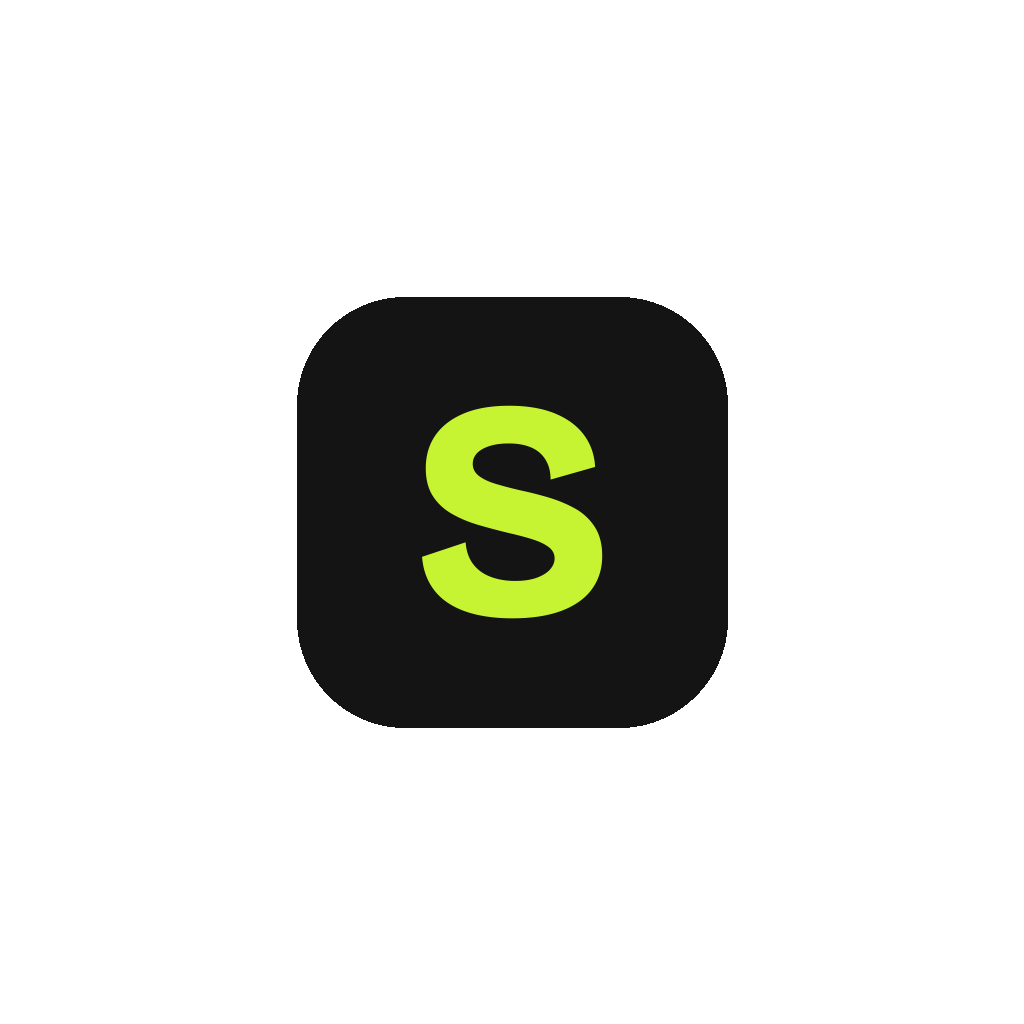
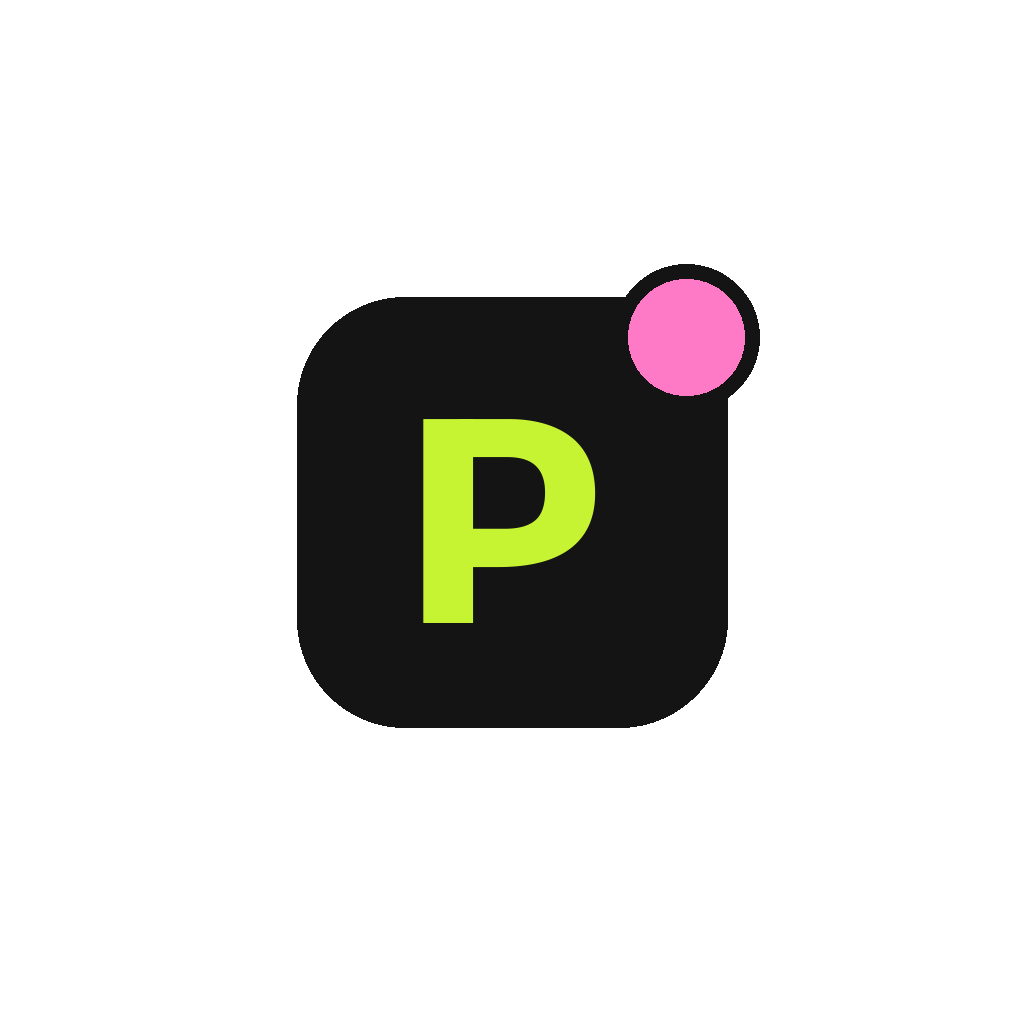
feat: rename the app to Pingo with a new P + ping-dot mark
Name, slug, URL scheme and bundle/package id (com.akashpatel.pingo),
all in-app copy, reminder and sign-in emails, privacy text and the CSV
export now say Pingo. Logo: lime P on the ink tile with a pink
notification dot; scripts/make_icons.py regenerates every icon asset,
and the splash dot pulses. Applied migrations are left as they were.

Changed region(s): [[0.4062, 0.375, 0.5938, 0.625], [0.5938, 0.25, 0.75, 0.4062]]

diff --git a/supabase/functions/send-reminders/index.ts b/supabase/functions/send-reminders/index.ts
@@ -111,7 +111,7 @@ export function renderEmail(r: Due, unsubUrl: string) {
 <table role="presentation" width="100%" cellpadding="0" cellspacing="0" style="max-width:480px;background:#FFFFFF;border:2.5px solid #141414;border-radius:22px;box-shadow:5px 5px 0 #141414;border-collapse:separate;overflow:hidden;color:#141414;font-family:${SANS}">
 <tr><td style="background:#C6F432;border-bottom:2.5px solid #141414;padding:12px 18px;border-radius:20px 20px 0 0">
 <table role="presentation" width="100%" cellpadding="0" cellspacing="0"><tr>
-<td style="font-family:${SANS};font-size:17px;font-weight:800;color:#141414"><span style="display:inline-block;width:26px;height:26px;line-height:26px;border-radius:8px;background:#141414;color:#C6F432;text-align:center;font-size:15px;vertical-align:middle">S</span>&nbsp; <span style="vertical-align:middle">SubTrack</span></td>
+<td style="font-family:${SANS};font-size:17px;font-weight:800;color:#141414"><span style="display:inline-block;width:26px;height:26px;line-height:26px;border-radius:8px;background:#141414;color:#C6F432;text-align:center;font-size:15px;vertical-align:middle">P</span>&nbsp; <span style="vertical-align:middle">Pingo</span></td>
 <td align="right" style="font-family:${MONO};font-size:11px;color:#141414">REMINDER</td>
 </tr></table></td></tr>
 <tr><td style="padding:22px 18px">
@@ -127,7 +127,7 @@ ${cta}
 <tr><td style="padding:16px 18px;background:#FFF8EC;border-top:2.5px solid #141414;border-radius:0 0 20px 20px;font-family:${MONO};font-size:12px;line-height:1.5;color:#141414">
 <div>you’re getting this because email reminders are on for ${name}.</div>
 <div style="margin-top:8px"><a href="${esc(unsubUrl)}" style="color:#141414;text-decoration:underline">unsubscribe from ${name} emails</a></div>
-<div style="margin-top:10px">SubTrack · sent with ♥</div>
+<div style="margin-top:10px">Pingo · sent with ♥</div>
 </td></tr>
 </table></td></tr></table></body></html>`;
   const text = `${head}\n\n${msg}\n\n${rows.map(([k, v]) => `${k}: ${v}`).join('\n')}\n` +
@@ -140,7 +140,7 @@ async function send(r: Due) {
   const unsub = `${SELF_URL}?unsub=${r.subscription_id}&sig=${await sign(r.subscription_id)}`;
   const { subject, html, text } = renderEmail(r, unsub);
   await smtp().sendMail({
-    from: Deno.env.get('EMAIL_FROM') ?? `SubTrack <${env('SMTP_USER')}>`,
+    from: Deno.env.get('EMAIL_FROM') ?? `Pingo <${env('SMTP_USER')}>`,
     to: r.email,
     subject,
     html,
@@ -161,7 +161,7 @@ export function renderPage(name: string, resubscribed: boolean, undoAction: stri
     ? `<button type="button" disabled style="${btn};opacity:.55;box-shadow:none;cursor:default">resubscribed ✓</button>`
     : `<form method="post" action="${esc(undoAction)}" style="margin:0"><button type="submit" style="${btn};cursor:pointer">oops, undo</button></form>`;
   return `<!doctype html><html lang="en"><head><meta charset="utf-8"><meta name="viewport" content="width=device-width,initial-scale=1">
-<meta name="robots" content="noindex">${FONTS}<title>${esc(title)} · SubTrack</title></head>
+<meta name="robots" content="noindex">${FONTS}<title>${esc(title)} · Pingo</title></head>
 <body style="margin:0;min-height:100vh;background:#FFF8EC;color:#141414;font-family:${SANS};display:flex;align-items:center;justify-content:center">
 <main style="width:100%;max-width:420px;padding:24px 28px;box-sizing:border-box">
 <div style="width:110px;height:110px;border-radius:50%;background:#C6F432;border:3px solid #141414;box-shadow:6px 6px 0 #141414;display:flex;align-items:center;justify-content:center;font-size:58px;font-weight:800;transform:rotate(-8deg)">✓</div>
@@ -190,8 +190,8 @@ async function toggle(req: Request, url: URL, param: 'unsub' | 'resub') {
 }
 
 export const plainPage = (name: string, resubscribed: boolean) => resubscribed
-  ? `SubTrack ✓ you're back in.\n\nEmails about ${name} are back on. We'll write before it charges.`
-  : `SubTrack ✓ you're unsubscribed.\n\nNo more emails about ${name}. Push reminders in the app still work.\n\nChanged your mind? Open SubTrack → ${name} → edit → turn on "email me too".\nOther subs keep emailing as usual.`;
+  ? `Pingo ✓ you're back in.\n\nEmails about ${name} are back on. We'll write before it charges.`
+  : `Pingo ✓ you're unsubscribed.\n\nNo more emails about ${name}. Push reminders in the app still work.\n\nChanged your mind? Open Pingo → ${name} → edit → turn on "email me too".\nOther subs keep emailing as usual.`;
 
 if (import.meta.main) Deno.serve(async (req) => {
   const url = new URL(req.url);

diff --git a/src/app/mail.tsx b/src/app/mail.tsx
@@ -47,9 +47,9 @@ export default function Mail() {
       <Rise style={{ paddingHorizontal: 18, paddingTop: 16 }}>
         <T accessibilityRole="header" w={800} size={22} style={{ lineHeight: 25, letterSpacing: -0.5 }}>{subject}</T>
         <View style={{ marginTop: 12, flexDirection: 'row', alignItems: 'center', gap: 10 }}>
-          <View style={[{ width: 40, height: 40, borderRadius: 20, backgroundColor: C.lime, alignItems: 'center', justifyContent: 'center' }, border()]}><T w={800} size={18}>S</T></View>
+          <View style={[{ width: 40, height: 40, borderRadius: 20, backgroundColor: C.lime, alignItems: 'center', justifyContent: 'center' }, border()]}><T w={800} size={18}>P</T></View>
           <View>
-            <T w={800} size={14}>SubTrack</T>
+            <T w={800} size={14}>Pingo</T>
             <T mono size={12}>to {profile?.email ?? 'me'} · {hourLabel(profile?.reminder_hour ?? 9)}</T>
           </View>
         </View>
@@ -58,8 +58,8 @@ export default function Mail() {
       <Rise delay={80} style={[{ marginHorizontal: 14, marginTop: 12, backgroundColor: C.white, borderRadius: 22, overflow: 'hidden' }, border(), shadow(5)]}>
         <View style={{ backgroundColor: C.lime, borderBottomWidth: 2.5, borderColor: C.ink, paddingVertical: 12, paddingHorizontal: 18, flexDirection: 'row', justifyContent: 'space-between', alignItems: 'center' }}>
           <View style={{ flexDirection: 'row', alignItems: 'center', gap: 8 }}>
-            <View style={{ width: 26, height: 26, borderRadius: 8, backgroundColor: C.ink, alignItems: 'center', justifyContent: 'center' }}><T w={800} size={15} color={C.lime}>S</T></View>
-            <T w={800} size={17}>SubTrack</T>
+            <View style={{ width: 26, height: 26, borderRadius: 8, backgroundColor: C.ink, alignItems: 'center', justifyContent: 'center' }}><T w={800} size={15} color={C.lime}>P</T></View>
+            <T w={800} size={17}>Pingo</T>
           </View>
           <T mono size={11}>REMINDER</T>
         </View>
@@ -77,7 +77,7 @@ export default function Mail() {
               </View>
             ))}
           </View>
-          <Btn style={{ marginTop: 18 }} h={54} size={15} title={portal ? `manage at ${portal} ↗` : 'open in SubTrack →'}
+          <Btn style={{ marginTop: 18 }} h={54} size={15} title={portal ? `manage at ${portal} ↗` : 'open in Pingo →'}
             onPress={() => (s.portal_url ? Linking.openURL(s.portal_url) : router.replace({ pathname: '/sub/[id]', params: { id: s.id } }))} />
           <View style={{ marginTop: 12, flexDirection: 'row', justifyContent: 'center', gap: 6 }}>
             <T size={13}>already cancelled?</T>
@@ -90,7 +90,7 @@ export default function Mail() {
             {s.email_enabled ? linkText(`unsubscribe from ${s.name} emails`, unsubscribe, C.redInk) : <T mono size={12}>emails for {s.name} are off</T>}
             {linkText('reminder settings', () => router.navigate('/settings'))}
           </View>
-          <T mono size={12} style={{ marginTop: 10 }}>SubTrack · sent with ♥</T>
+          <T mono size={12} style={{ marginTop: 10 }}>Pingo · sent with ♥</T>
         </View>
       </Rise>
     </Screen>

diff --git a/supabase/templates/login-code.html b/supabase/templates/login-code.html
@@ -6,12 +6,12 @@
 <link href="https://fonts.googleapis.com/css2?family=Bricolage+Grotesque:wght@500;800&family=DM+Mono&display=swap" rel="stylesheet">
 </head>
 <body style="margin:0;padding:0;background:#F4F0E6">
-<!-- SubTrack sign-in code. Used for both "Magic Link" and "Confirm signup" (first sign-in) templates. -->
+<!-- Pingo sign-in code. Used for both "Magic Link" and "Confirm signup" (first sign-in) templates. -->
 <table role="presentation" width="100%" cellpadding="0" cellspacing="0" style="background:#F4F0E6">
 <tr><td align="center" style="padding:24px 14px">
 <table role="presentation" width="100%" cellpadding="0" cellspacing="0" style="max-width:480px;background:#ffffff;border:2.5px solid #141414;border-radius:22px;box-shadow:5px 5px 0 #141414">
 <tr><td style="background:#C6F432;border-bottom:2.5px solid #141414;border-radius:20px 20px 0 0;padding:12px 18px;font-family:'Bricolage Grotesque',-apple-system,Segoe UI,Roboto,Helvetica,Arial,sans-serif;font-size:17px;font-weight:800;color:#141414">
-<span style="display:inline-block;width:26px;height:26px;line-height:26px;text-align:center;border-radius:8px;background:#141414;color:#C6F432;font-size:15px">S</span>&nbsp; SubTrack
+<span style="display:inline-block;width:26px;height:26px;line-height:26px;text-align:center;border-radius:8px;background:#141414;color:#C6F432;font-size:15px">P</span>&nbsp; Pingo
 </td></tr>
 <tr><td style="padding:24px 18px;font-family:'Bricolage Grotesque',-apple-system,Segoe UI,Roboto,Helvetica,Arial,sans-serif;color:#141414">
 <div style="font-size:28px;line-height:1.1;font-weight:800;letter-spacing:-0.8px">your sign-in code 📬</div>
@@ -19,7 +19,7 @@
 <div style="margin:20px 0 0;padding:14px 0;text-align:center;background:#C6F432;border:2.5px solid #141414;border-radius:16px;font-family:'DM Mono',ui-monospace,Menlo,monospace;font-size:34px;letter-spacing:10px;color:#141414">{{ .Token }}</div>
 <p style="margin:18px 0 0;font-size:13px;line-height:1.45;font-weight:500">didn’t ask for this? ignore it. no one gets in without the code.</p>
 </td></tr>
-<tr><td style="padding:14px 18px;background:#FFF8EC;border-top:2.5px solid #141414;border-radius:0 0 20px 20px;font-family:'DM Mono',ui-monospace,Menlo,monospace;font-size:12px;color:#141414">no passwords. ever. ✌ · SubTrack</td></tr>
+<tr><td style="padding:14px 18px;background:#FFF8EC;border-top:2.5px solid #141414;border-radius:0 0 20px 20px;font-family:'DM Mono',ui-monospace,Menlo,monospace;font-size:12px;color:#141414">no passwords. ever. ✌ · Pingo</td></tr>
 </table>
 </td></tr>
 </table>

diff --git a/src/components/Splash.tsx b/src/components/Splash.tsx
@@ -25,10 +25,11 @@ export function Splash() {
         </Loop>
         <PopIn delay={100}>
           <View style={[{ width: 148, height: 148, borderRadius: 42, backgroundColor: C.ink, alignItems: 'center', justifyContent: 'center', transform: [{ rotate: '-6deg' }] }, border(3), shadow(8, C.pink)]}>
-            <T w={800} size={96} color={C.lime} style={{ letterSpacing: -4, lineHeight: 110 }}>S</T>
+            <T w={800} size={96} color={C.lime} style={{ letterSpacing: -4, lineHeight: 110 }}>P</T>
           </View>
-          <Loop kind="spin" duration={5000} style={{ position: 'absolute', top: -18, right: -20 }}>
-            <View style={[{ width: 54, height: 54, borderRadius: 27, backgroundColor: C.yellow, alignItems: 'center', justifyContent: 'center' }, border(3)]}><T size={24}>✦</T></View>
+          {/* The "ping": a notification dot on the P, pulsing. */}
+          <Loop kind="pulse" duration={1300} style={{ position: 'absolute', top: -12, right: -12 }}>
+            <View style={[{ width: 46, height: 46, borderRadius: 23, backgroundColor: C.pink }, border(3)]} />
           </Loop>
           <PopIn delay={750} style={{ position: 'absolute', bottom: -14, left: -24 }}>
             <View style={[{ paddingHorizontal: 10, paddingVertical: 4, borderRadius: 999, backgroundColor: C.red, transform: [{ rotate: '-10deg' }] }, border()]}>
@@ -36,7 +37,7 @@ export function Splash() {
             </View>
           </PopIn>
         </PopIn>
-        <Rise delay={450} style={{ marginTop: 34 }}><T w={800} size={46} style={{ letterSpacing: -2 }}>SubTrack</T></Rise>
+        <Rise delay={450} style={{ marginTop: 34 }}><T w={800} size={46} style={{ letterSpacing: -2 }}>Pingo</T></Rise>
         <Rise delay={550} style={{ marginTop: 6 }}><T mono size={13}>subscriptions, handled.</T></Rise>
       </Pressable>
     </Animated.View>

diff --git a/src/app/login.tsx b/src/app/login.tsx
@@ -134,7 +134,7 @@ export default function Login() {
             <View style={[{ paddingVertical: 10, paddingHorizontal: 18, borderRadius: 999, backgroundColor: C.red, transform: [{ rotate: '-5deg' }] }, border(3), shadow(4)]}><T w={800} size={18} color={C.white}>in 2 days 👀</T></View>
           </Loop>
           <Loop kind="bob" duration={2800} delay={1100} style={{ position: 'absolute', right: 20, top: 204 }}>
-            <View style={[{ width: 70, height: 70, borderRadius: 35, backgroundColor: C.purple, alignItems: 'center', justifyContent: 'center', transform: [{ rotate: '8deg' }] }, border(3), shadow(4)]}><T w={800} size={34}>S</T></View>
+            <View style={[{ width: 70, height: 70, borderRadius: 35, backgroundColor: C.purple, alignItems: 'center', justifyContent: 'center', transform: [{ rotate: '8deg' }] }, border(3), shadow(4)]}><T w={800} size={34}>P</T></View>
           </Loop>
           <Loop kind="spin" duration={9000} style={{ position: 'absolute', left: 16, top: 196 }}>
             <View style={[{ width: 54, height: 54, borderRadius: 27, backgroundColor: C.yellow, alignItems: 'center', justifyContent: 'center' }, border(3)]}><T size={28}>✦</T></View>
@@ -142,7 +142,7 @@ export default function Login() {
         </View>
         <Rise delay={100} style={{ flexDirection: 'row', alignItems: 'center', gap: 8 }}>
           <View style={[{ width: 10, height: 10, borderRadius: 5, backgroundColor: C.lime }, border(2)]} />
-          <T mono={500} size={13}>SubTrack</T>
+          <T mono={500} size={13}>Pingo</T>
         </Rise>
         <Rise delay={180} style={{ marginTop: 10 }}>
           <T w={800} size={46} style={{ lineHeight: 46, letterSpacing: -1.8 }}>never get</T>

diff --git a/src/components/notif.tsx b/src/components/notif.tsx
@@ -8,8 +8,8 @@ import { Sheet, Tile, useFx } from './overlays';
 import { Btn, T } from './ui';
 
 const STEPS = Platform.OS === 'ios'
-  ? ['open settings', 'notifications → SubTrack', 'switch “allow notifications” on']
-  : ['open android settings', 'apps → SubTrack → notifications', 'switch “allow notifications” on'];
+  ? ['open settings', 'notifications → Pingo', 'switch “allow notifications” on']
+  : ['open android settings', 'apps → Pingo → notifications', 'switch “allow notifications” on'];
 
 // Push is effectively off when the OS blocks it or the user switched it off in settings.
 export function usePushOff() {
@@ -61,7 +61,7 @@ export function NotifOffSheet({ visible, onClose }: { visible: boolean; onClose:
       <Tile emoji="🔕" bg={C.paper} wiggle />
       <T accessibilityRole="header" w={800} size={34} style={{ marginTop: 20, letterSpacing: -1.2, lineHeight: 36 }}>notifs are off</T>
       <T size={16} style={{ marginTop: 10, lineHeight: 22 }}>
-        {blockedByOs ? `${Platform.OS === 'ios' ? 'iOS' : 'android'} is blocking SubTrack, so we can’t ping you before charges.` : 'you switched push off, so we can’t ping you before charges.'} email reminders still work.
+        {blockedByOs ? `${Platform.OS === 'ios' ? 'iOS' : 'android'} is blocking Pingo, so we can’t ping you before charges.` : 'you switched push off, so we can’t ping you before charges.'} email reminders still work.
       </T>
       {blockedByOs && (
         <View style={{ marginTop: 18, gap: 10 }}>

diff --git a/src/app/(tabs)/settings.tsx b/src/app/(tabs)/settings.tsx
@@ -40,7 +40,7 @@ export default function Settings() {
 
   async function exportCsv() {
     try {
-      await Share.share({ title: 'subtrack-export.csv', message: toCsv(subs) });
+      await Share.share({ title: 'pingo-export.csv', message: toCsv(subs) });
     } catch {
       toast('export failed. try again');
     }
@@ -119,7 +119,7 @@ export default function Settings() {
           {({ pressed }) => <T w={800} size={16} color={pressed ? C.white : C.redInk}>delete account</T>}
         </Pressable>
       </Rise>
-      <T mono size={11} style={{ marginTop: 22, textAlign: 'center' }}>SubTrack v1.0 · made w/ ♥ & mild money anxiety</T>
+      <T mono size={11} style={{ marginTop: 22, textAlign: 'center' }}>Pingo v1.0 · made w/ ♥ & mild money anxiety</T>
 
       <NotifOffSheet visible={sheet} onClose={() => setSheet(false)} />
       <Confirm visible={confirm} title="nuke your account?" body="every sub, reminder and setting gets deleted forever. fr fr no undo." yes="delete it all"

diff --git a/src/app/onboard.tsx b/src/app/onboard.tsx
@@ -28,7 +28,7 @@ export default function Onboard() {
       <View style={{ flexDirection: 'row', justifyContent: 'space-between', alignItems: 'center', paddingHorizontal: 24, paddingTop: 10 }}>
         <View style={{ flexDirection: 'row', alignItems: 'center', gap: 8 }}>
           <View style={[{ width: 10, height: 10, borderRadius: 5, backgroundColor: C.lime }, border(2)]} />
-          <T mono={500} size={13}>SubTrack</T>
+          <T mono={500} size={13}>Pingo</T>
         </View>
         <Pressable accessibilityRole="button" onPress={finish} hitSlop={6} style={({ pressed }) => [{ height: 38, paddingHorizontal: 16, borderRadius: 999, backgroundColor: pressed ? C.yellow : C.white, justifyContent: 'center' }, border(2)]}>
           <T w={700} size={14}>skip</T>

diff --git a/src/theme.ts b/src/theme.ts
@@ -1,4 +1,4 @@
-// Design tokens from the SubTrack design (neo-brutalist: ink borders, hard offset shadows).
+// Design tokens from the Pingo design (neo-brutalist: ink borders, hard offset shadows).
 export const C = {
   ink: '#141414',
   cream: '#FFF8EC',

diff --git a/scripts/make_icons.py b/scripts/make_icons.py
@@ -1,0 +1,32 @@
+# Renders Pingo's logo into the app's icon/splash assets. Run from the repo root:
+#   python3 scripts/make_icons.py
+# Mark: ink rounded square, lime "P", pink "ping" dot on the top-right corner.
+from PIL import Image, ImageDraw, ImageFont
+
+FONT = 'node_modules/@expo-google-fonts/bricolage-grotesque/800ExtraBold/BricolageGrotesque_800ExtraBold.ttf'
+LIME, INK, PINK = (198, 244, 50, 255), (20, 20, 20, 255), (255, 122, 198, 255)
+
+
+def mark(size, box_frac, bg=None, dot=True, ink=INK, letter=LIME, dot_fill=PINK):
+    im = Image.new('RGBA', (size, size), bg or (0, 0, 0, 0))
+    d = ImageDraw.Draw(im)
+    b = size * box_frac
+    x0 = (size - b) / 2
+    d.rounded_rectangle([x0, x0, x0 + b, x0 + b], radius=b * 0.25, fill=ink)
+    f = ImageFont.truetype(FONT, int(b * 0.72))
+    d.text((size / 2 - b * 0.02, size / 2 + b * 0.02), 'P', font=f, fill=letter, anchor='mm')
+    if dot:
+        r = b * 0.17
+        cx, cy = x0 + b - r * 0.55, x0 + r * 0.55
+        d.ellipse([cx - r, cy - r, cx + r, cy + r], fill=dot_fill, outline=ink, width=max(2, int(b * 0.035)))
+    return im
+
+
+mark(1024, 0.56, LIME).convert('RGB').save('assets/icon.png')                     # iOS: no transparency
+mark(1024, 0.42).save('assets/android-icon-foreground.png')                       # inside adaptive safe zone
+Image.new('RGBA', (1024, 1024), LIME).save('assets/android-icon-background.png')
+white = (255, 255, 255, 255)
+mark(1024, 0.42, ink=white, letter=(0, 0, 0, 0), dot_fill=white).save('assets/android-icon-monochrome.png')
+mark(512, 0.86).save('assets/splash-icon.png')
+mark(48, 0.9, LIME, dot=False).save('assets/favicon.png')                         # too small for the dot
+print('icons written')

diff --git a/LEDGER.md b/LEDGER.md
@@ -1,6 +1,6 @@
 # Ledger
 
-Work log for SubTrack. One line per task; decisions and known gaps below.
+Work log for Pingo (named SubTrack until 2026-10-01). One line per task; decisions and known gaps below.
 
 | Task | Status | Commit | Notes |
 |------|--------|--------|-------|
@@ -26,6 +26,8 @@ Work log for SubTrack. One line per task; decisions and known gaps below.
 | D6 Android run | done | — | Native debug build on Android 15 emulator (Pixel 7). Verified: splash, onboarding, code login, ask-first sheet → system prompt → granted, reminder notification posted, swipe row → delete via confirm modal (gone from DB), add form. Fixed 3 Android bugs: keyboard covered login field (decoration folds away while typing; `behavior="padding"` on both platforms), Android 13+ reports notification permission `denied` before first ask (now treated as not-asked when it can still ask — was showing a false "notifs are off" banner and skipping the ask sheet), form content ran under the status bar. Keyboard + status-bar fixes re-checked on iOS with the on-screen keyboard |
 
 | D7 Accessibility pass | done | e605519..01ffb91 | Contrast: 4 text colours failed WCAG AA (worst 2.6:1) → all ≥4.5:1 (`red`, `redInk`, new `blueBtn`, `placeholder` tokens). Touch targets: small chips/toggles/links padded to 44pt via hitSlop. Screen readers: row actions (Cancel/Delete) instead of swipe, summary labels, headers, announced toasts, decoration hidden. Reduce Motion honoured (verified by frame diff on/off). Large text: capped scaling on display type, login/home cards reflow (checked at largest iOS size) |
+
+| D8 Rename to Pingo | done | — | App renamed SubTrack → Pingo (name, slug, scheme `pingo`, bundle/package `com.akashpatel.pingo`, all copy, emails, CSV filename). New mark: lime P on ink tile with a pink "ping" dot (`scripts/make_icons.py` regenerates all icons; splash dot pulses). Applied migrations left untouched. Expo Go's loading card shows its own cached icon — real builds use the new one |
 
 ## Decisions
 - Defaults for open questions: login + email (as spec), iOS + Android, INR default with per-sub currency.

diff --git a/PRIVACY.md b/PRIVACY.md
@@ -1,8 +1,8 @@
-# SubTrack Privacy Policy
+# Pingo Privacy Policy
 
 _Last updated: 2026-09-30_
 
-SubTrack helps you remember when your subscriptions renew or expire.
+Pingo helps you remember when your subscriptions renew or expire.
 
 ## What we store
 - Your email address (to sign you in and send reminders).
